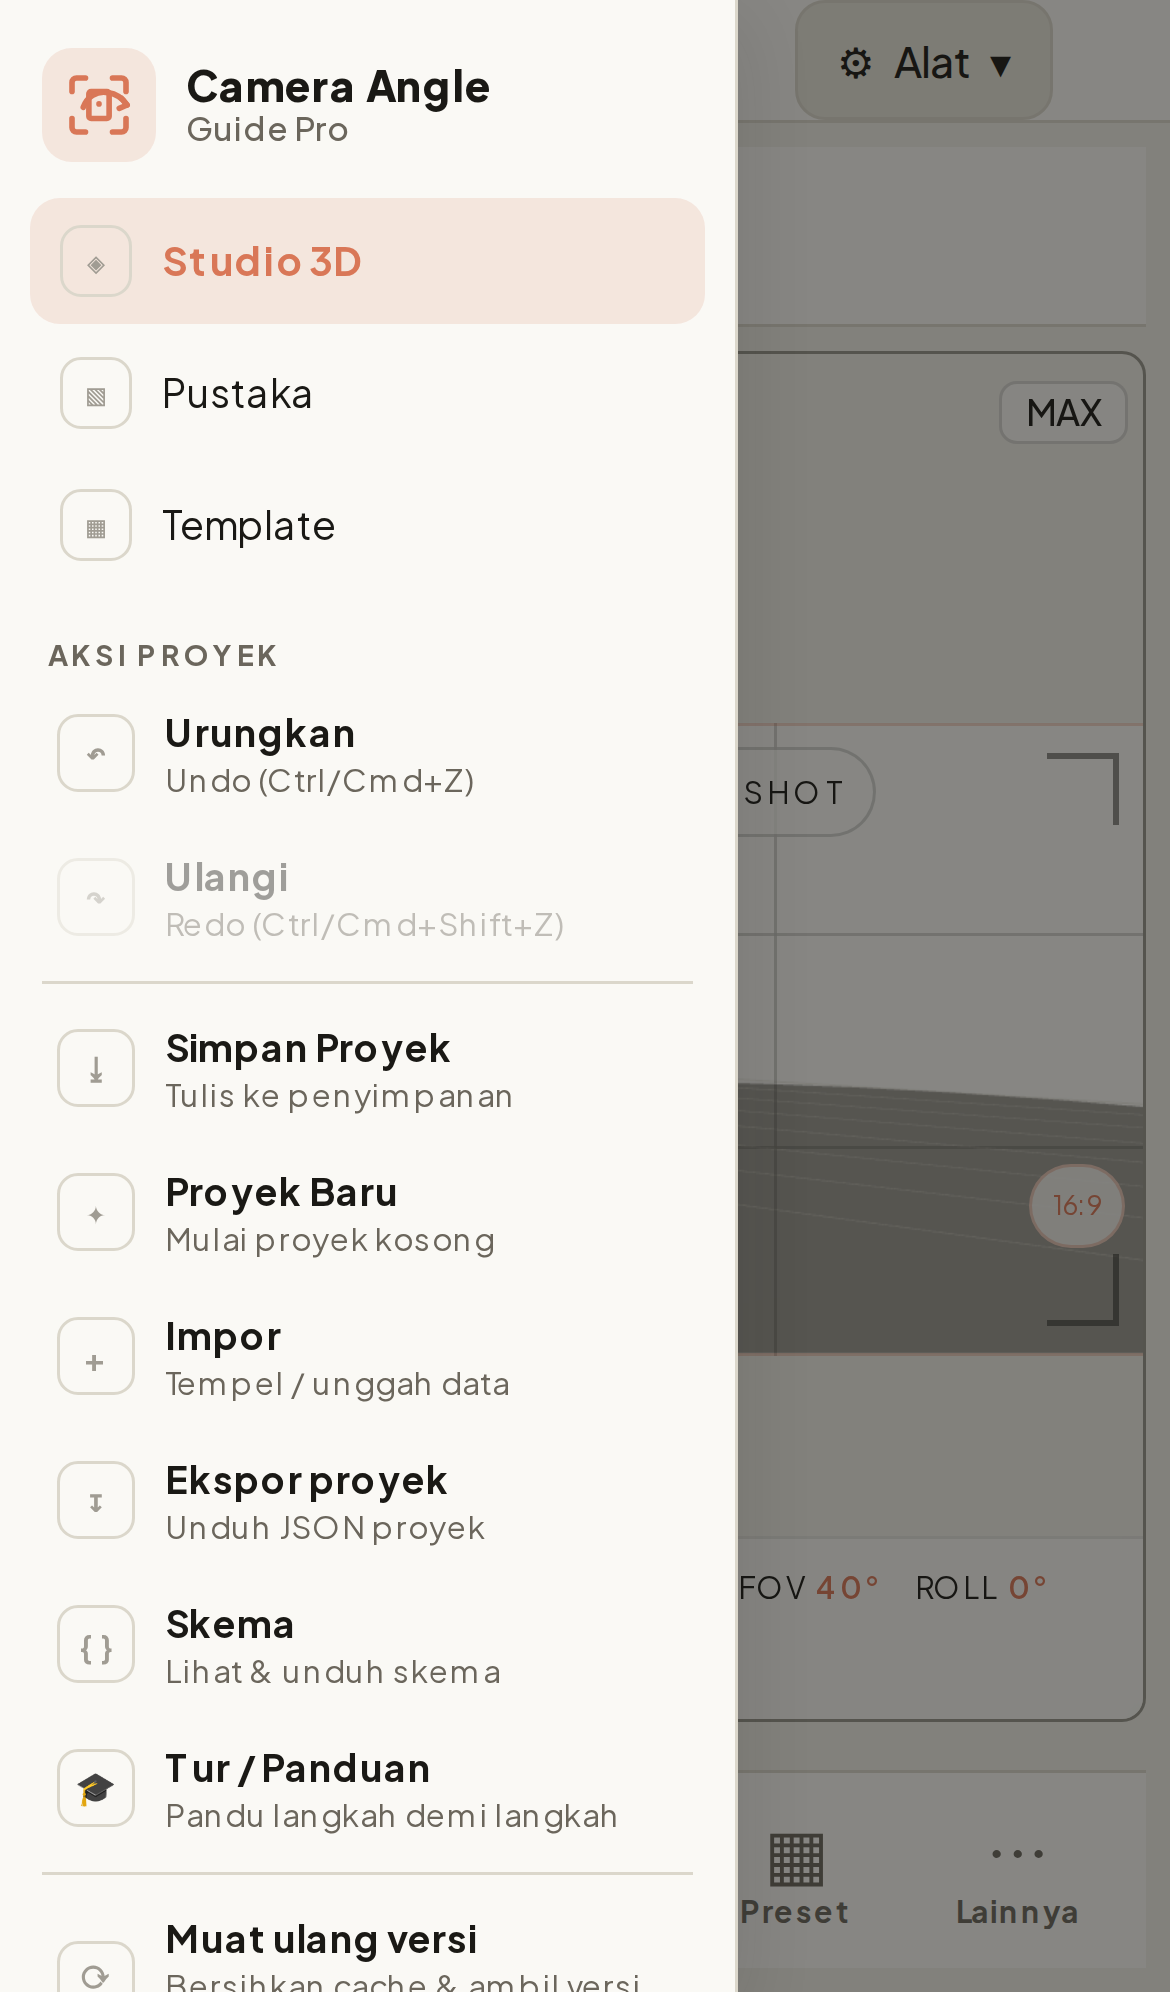
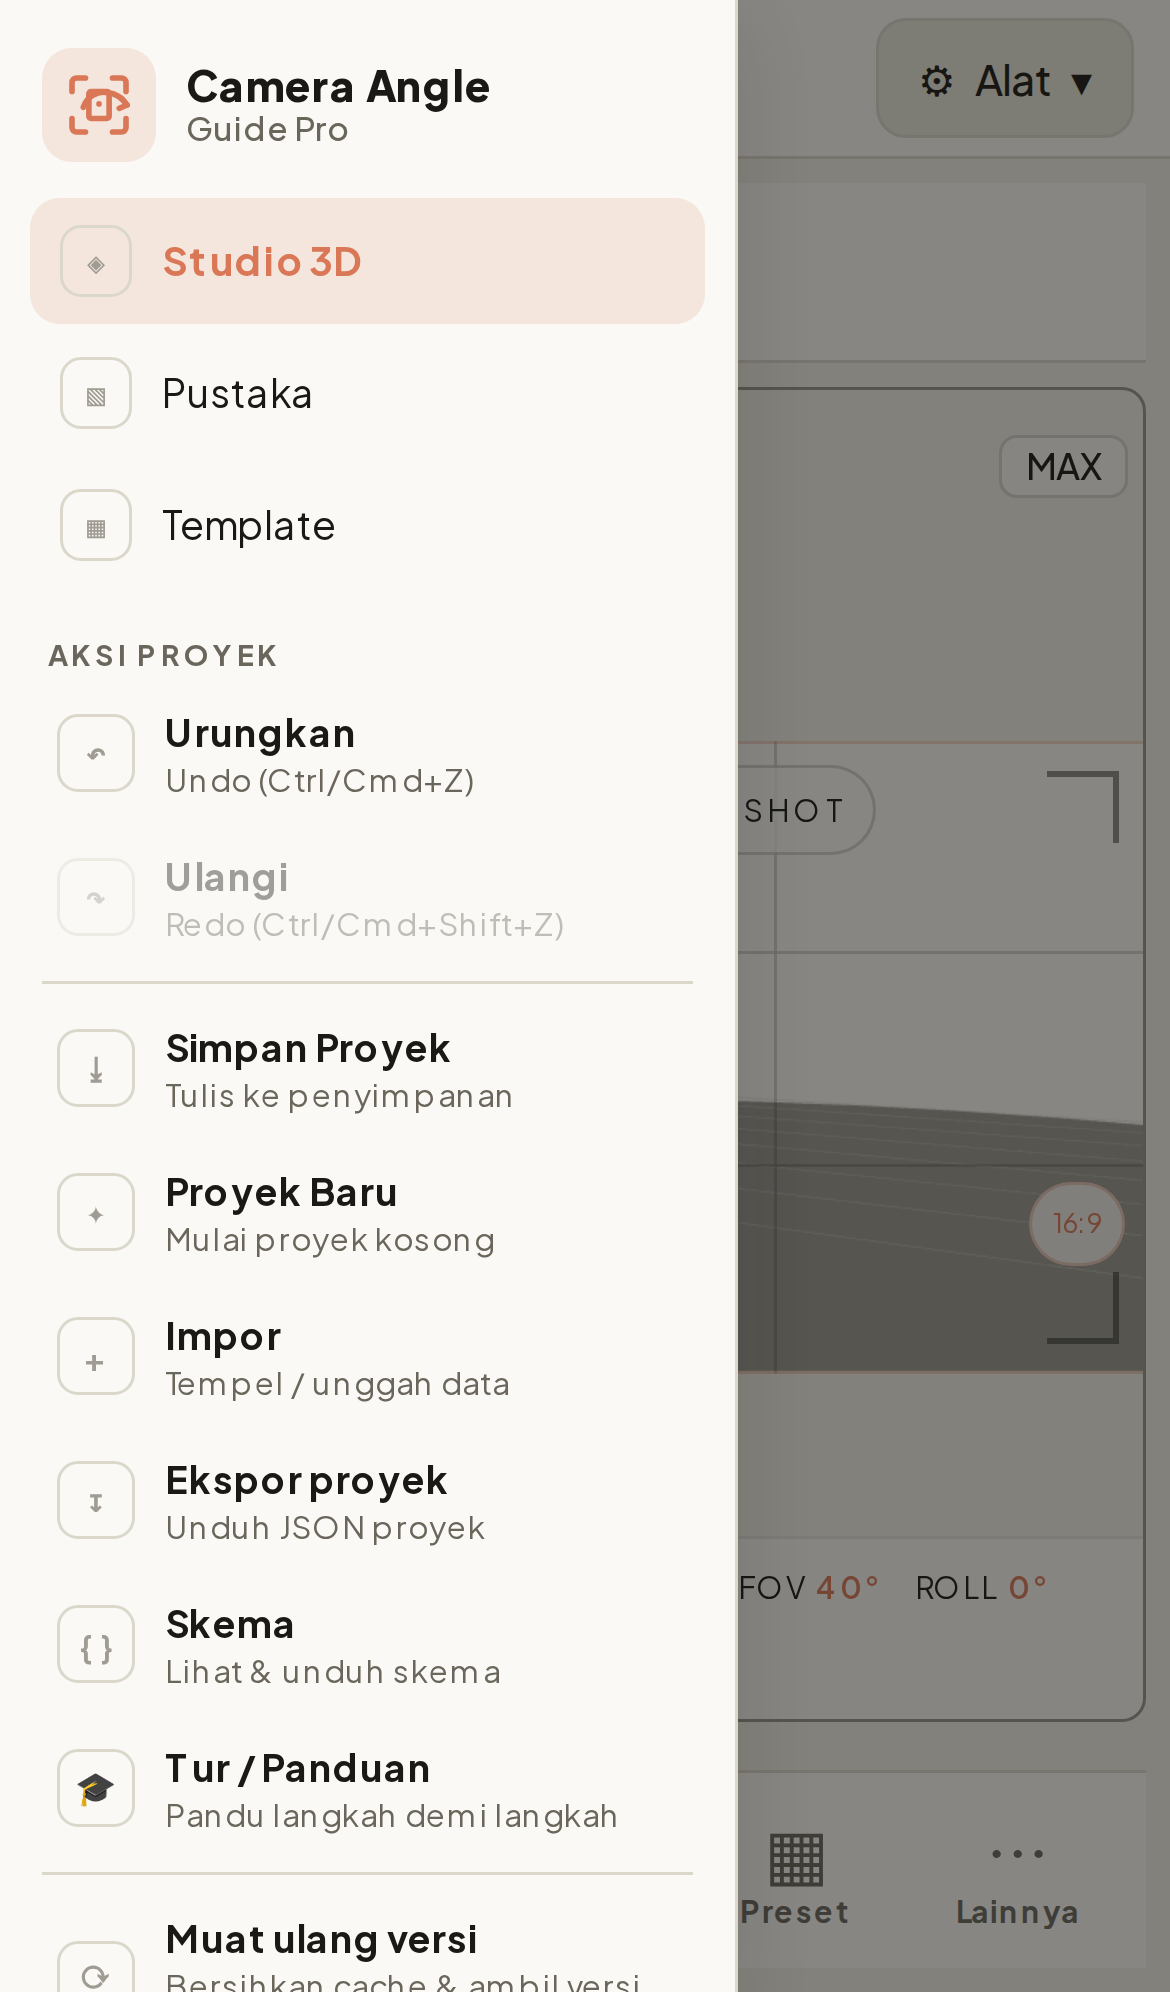
feat(editor): update-frame buttons + camera picker on preview + style-audit fixes
(A) UPDATE FRAME — discoverable now:
- Mobile long-press menu gains '⟳ Perbarui (kamera kini)' (new updateFrameById(id)
  action so it targets the held thumbnail, not just the active frame).
- Desktop sidebar 'Perbarui' button is now always shown when a frame is selected
  (disabled with a hint until the camera changes) instead of appearing only when dirty.

(B) CAMERA PICKER ON THE PREVIEW — new CamPresetMenu chip in the CAM cell's corner
  (mirrors the ortho cells' view dropdown: trigger + popover + pointer isolation so it
  never starts a canvas drag). Sets the per-frame camera, or the project camera when
  global is on. '◉ Kamera ▾' → pick → prompt updates live.

(C) STYLE AUDIT (ultracode, 4 readers) — fixed the real jank:
- HIGH: the bottom dock double-counted env(safe-area-inset-bottom) (root .app-shell
  already reserves it) → clipped ＋/labels on notched phones. Dropped the dock's env.
- Mobile top bar: right-align Alat (margin-left:auto) to fill the dead space; give the
  merged tabbar vertical padding so the boxed ☰/Alat don't touch the border.
- Touch targets: .cag-editor select bumped to 40px (camera pickers were ~32px).
- Tokenized colors: themeColor + PWA background_color now match --background
  (#F0EEE6/#262624, were #ffffff/#0b0b0c); global-error brand fallback #4f46e5→#D97757;
  .mfs-menu-del #fff→var(--destructive-foreground). Raised the long-press menu clamp.
  (Skipped marginal nits — radius scatter, Badge 1px→1.5px — to avoid visual drift.)
[…]

diff --git a/src/components/editor/viewport/CamPresetMenu.tsx b/src/components/editor/viewport/CamPresetMenu.tsx
@@ -1,0 +1,88 @@
+"use client";
+// CamPresetMenu.tsx — the camera-BRAND picker chip on the CAM viewport cell, the
+// direct-from-preview equivalent of the ortho cells' view dropdown (CellViewMenu):
+// a .cvm-trigger button + popover, with the same pointer/wheel isolation so opening
+// it never starts a canvas drag or zoom. Sets the per-frame camera, or the PROJECT
+// camera when the global-camera toggle is on. Reuses CellViewMenu.css.
+
+import React, { useEffect, useRef, useState } from "react";
+import { useEditor } from "@/state/EditorState";
+import { CAMERAS, cameraById } from "@/lib/cameras";
+import "./CellViewMenu.css";
+
+export function CamPresetMenu() {
+  const ctx = useEditor();
+  const settings = ctx.project.settings;
+  const current = ctx.currentFrame();
+  const global = settings.globalCamera;
+  const value = global ? settings.camera : current?.camera ?? "";
+  const disabled = !global && !current;
+  const label = value ? cameraById(value)?.label ?? "Kamera" : "Kamera";
+
+  const [open, setOpen] = useState(false);
+  const rootRef = useRef<HTMLDivElement | null>(null);
+  const popRef = useRef<HTMLDivElement | null>(null);
+
+  // Isolate the open popover from the cell's native pointer/wheel handlers so
+  // clicking/scrolling the menu never starts a drag or zooms the 3D view.
+  useEffect(() => {
+    const el = popRef.current;
+    if (!el || !open) return;
+    const stop = (e: Event) => e.stopPropagation();
+    el.addEventListener("pointerdown", stop);
+    el.addEventListener("wheel", stop, { passive: true });
+    return () => {
+      el.removeEventListener("pointerdown", stop);
+      el.removeEventListener("wheel", stop);
+    };
+  }, [open]);
+
+  useEffect(() => {
+    if (!open) return;
+    const onDoc = (e: MouseEvent) => {
+      if (rootRef.current && !rootRef.current.contains(e.target as Node)) setOpen(false);
+    };
+    const onKey = (e: KeyboardEvent) => {
+      if (e.key === "Escape") setOpen(false);
+    };
+    document.addEventListener("mousedown", onDoc);
+    document.addEventListener("keydown", onKey);
+    return () => {
+      document.removeEventListener("mousedown", onDoc);
+      document.removeEventListener("keydown", onKey);
+    };
+  }, [open]);
+
+  const pick = (id: string) => {
+    if (global) ctx.setProjectCamera(id);
+    else if (current) ctx.setFrameCamera(current.id, id);
+    setOpen(false);
+  };
+
+  return (
+    <div className="cell-viewmenu" ref={rootRef}>
+      <button
+        className="cvm-trigger"
+        title={global ? "Kamera global — berlaku ke semua frame" : "Pilih kamera brand untuk frame ini"}
+        disabled={disabled}
+        onClick={() => setOpen((o) => !o)}
+      >
+        ◉ {label}
+        <span className="cvm-chev">▾</span>
+      </button>
+
+      {open ? (
+        <div className="cvm-pop" ref={popRef}>
+          <div className="cvm-label">{global ? "Kamera global (semua frame)" : "Kamera frame ini"}</div>
+          {CAMERAS.map((c) => (
+            <button key={c.id} className="cvm-item" data-active={value === c.id} onClick={() => pick(c.id)}>
+              <span className="cvm-name">{c.label}</span>
+            </button>
+          ))}
+        </div>
+      ) : null}
+    </div>
+  );
+}
+
+export default CamPresetMenu;

diff --git a/src/components/editor/OutlineSidebar.tsx b/src/components/editor/OutlineSidebar.tsx
@@ -130,10 +130,20 @@ export function OutlineSidebar() {
             />
             s
           </label>
-          {current && dirty ? (
-            <Button variant="primary" size="sm" title="Terapkan kamera saat ini ke frame terpilih" onClick={ctx.updateFrame}>
+          {current ? (
+            <Button
+              variant="primary"
+              size="sm"
+              disabled={!dirty}
+              title={
+                dirty
+                  ? "Tulis kamera + subjek saat ini ke frame terpilih"
+                  : "Ubah kamera dulu — lalu klik untuk menyimpannya ke frame ini"
+              }
+              onClick={ctx.updateFrame}
+            >
               <span style={{ display: "inline-flex", alignItems: "center", gap: 5 }}>
-                <IconUpdate size={13} /> Terapkan
+                <IconUpdate size={13} /> Perbarui
               </span>
             </Button>
           ) : null}

diff --git a/src/state/editor/frames.ts b/src/state/editor/frames.ts
@@ -25,6 +25,7 @@ import type { EditorCore } from "./core";
 export interface FrameActions {
   addFrame: () => void;
   updateFrame: () => void;
+  updateFrameById: (id: string) => void;
   loadFrame: (id: string) => void;
   dupFrame: (id: string) => void;
   delFrame: (id: string) => void;
@@ -92,6 +93,20 @@ export function useFrameActions(
     commitHistory("Perbarui frame");
     bump();
   }, [currentFrame, stopPlayback, captureFrameFields, commitHistory, bump]);
+
+  // Write the live camera into a SPECIFIC frame by id (used by the mobile long-press
+  // menu, which targets the held thumbnail rather than the active frame).
+  const updateFrameById = useCallback(
+    (id: string) => {
+      const hit = findFrame(projectRef.current, id);
+      if (!hit) return;
+      stopPlayback();
+      Object.assign(hit.frame, captureFrameFields());
+      commitHistory("Perbarui frame");
+      bump();
+    },
+    [projectRef, stopPlayback, captureFrameFields, commitHistory, bump]
+  );
 
   const loadFrame = useCallback(
     (id: string) => {
@@ -193,6 +208,7 @@ export function useFrameActions(
   return {
     addFrame,
     updateFrame,
+    updateFrameById,
     loadFrame,
     dupFrame,
     delFrame,

diff --git a/src/components/editor/editor.css b/src/components/editor/editor.css
@@ -1226,7 +1226,7 @@
 }
 .cag-editor .mfs-menu-del.armed {
   background: var(--destructive);
-  color: #fff;
+  color: var(--destructive-foreground);
 }
 .cag-editor .mfs-menu-rename {
   display: flex;
@@ -1669,7 +1669,9 @@
     align-items: stretch;
     justify-content: space-between;
     gap: 4px;
-    padding: 4px 8px calc(4px + env(safe-area-inset-bottom, 0px));
+    /* the root .app-shell already pads env(safe-area-inset-bottom) — don't re-add it
+       here or a notched phone double-counts the inset and clips the icons/labels. */
+    padding: 4px 8px;
     border-top: 1px solid var(--line);
     background: var(--panel);
   }
@@ -1731,6 +1733,11 @@
     overflow-x: hidden;
     grid-template-rows: min(60vh, 480px) auto auto;
   }
+  /* the merged top bar hosts boxed buttons (☰ + Alat) — give the row vertical
+     breathing room (desktop keeps its flush 0 16px underline-tab strip). */
+  .cag-editor .tabbar {
+    padding: 6px 12px;
+  }
   /* ☰ drawer trigger — the app header is hidden on the mobile editor, so the tabbar
      IS the top bar. Big touch target. */
   .cag-editor .tabbar-burger {
@@ -1761,6 +1768,8 @@
     gap: 6px;
     padding: 9px 13px;
     font-size: 14px;
+    /* push Alat to the right edge (fills the dead space left of the hidden hint) */
+    margin-left: auto;
   }
   .cag-editor .tabbar-alat.open {
     background: var(--accent);

diff --git a/src/components/editor/MobileFrameMenu.tsx b/src/components/editor/MobileFrameMenu.tsx
@@ -26,8 +26,9 @@ export function MobileFrameMenu({
   const [name, setName] = useState(frame.name);
   const [confirmDel, setConfirmDel] = useState(false);
 
-  // anchor below the tile, clamped into the viewport
-  const top = Math.min(rect.bottom + 6, window.innerHeight - 240);
+  // anchor below the tile, clamped so the full menu (~272px with the Perbarui row)
+  // never runs off the bottom and clips the last action.
+  const top = Math.min(rect.bottom + 6, window.innerHeight - 288);
   const left = Math.max(8, Math.min(rect.left, window.innerWidth - 184));
   const run = (fn: () => void) => {
     fn();
@@ -53,6 +54,9 @@ export function MobileFrameMenu({
         ) : (
           <>
             <div className="mfs-menu-head">#{index + 1} · {frame.name}</div>
+            <button role="menuitem" onClick={() => run(() => ctx.updateFrameById(frame.id))}>
+              ⟳ Perbarui (kamera kini)
+            </button>
             <button role="menuitem" onClick={() => setRenaming(true)}>✎ Ganti nama</button>
             <button role="menuitem" onClick={() => run(() => ctx.dupFrame(frame.id))}>⧉ Duplikat</button>
             <button role="menuitem" disabled={index === 0} onClick={() => run(() => ctx.moveFrame(frame.id, -1))}>

diff --git a/src/components/editor/viewport/EditorViewport.tsx b/src/components/editor/viewport/EditorViewport.tsx
@@ -10,6 +10,7 @@ import React, { useEffect, useRef } from "react";
 import { useEditor } from "@/state/EditorState";
 import { ViewCell } from "./ViewCell";
 import { CellViewMenu } from "./CellViewMenu";
+import { CamPresetMenu } from "./CamPresetMenu";
 import { Hud } from "./Hud";
 import type { EditorViewportEngine as EngineType } from "./editorViewportEngine";
 import type { EngineHudRefs, ViewId, SlotId, ViewKind } from "@/lib/editor/engineApi";
@@ -165,7 +166,11 @@ export function EditorViewport() {
               maxTitle={m.maxTitle}
               onMax={() => toggleFocus(m.id)}
               head={
-                isSlot ? (
+                m.id === "cam" ? (
+                  // the CAM cell's corner chip is the camera-BRAND picker (the
+                  // direct-from-preview equivalent of the ortho view dropdowns).
+                  <CamPresetMenu />
+                ) : isSlot ? (
                   <CellViewMenu
                     slot={slot}
                     current={quadSlots[slot] ?? SLOT_DEFAULTS[slot]}

diff --git a/src/app/global-error.tsx b/src/app/global-error.tsx
@@ -25,8 +25,8 @@ export default function GlobalError({
           display: "grid",
           placeItems: "center",
           fontFamily: "var(--font-sans, system-ui, sans-serif)",
-          background: "var(--background, #0b0b0c)",
-          color: "var(--foreground, #e6e6e6)",
+          background: "var(--background, #262624)",
+          color: "var(--foreground, #F4F3EE)",
         }}
       >
         <div style={{ textAlign: "center", padding: 24, maxWidth: 420 }}>
@@ -42,7 +42,7 @@ export default function GlobalError({
               border: 0,
               cursor: "pointer",
               fontWeight: 700,
-              background: "var(--primary, #4f46e5)",
+              background: "var(--primary, #D97757)",
               color: "var(--primary-foreground, #fff)",
             }}
           >

diff --git a/src/app/layout.tsx b/src/app/layout.tsx
@@ -37,9 +37,10 @@ export const viewport: Viewport = {
   // env(safe-area-inset-*) become real values the shells pad back in.
   viewportFit: "cover",
   // tints the mobile browser chrome to match the app background per theme
+  // match --background per theme (was #ffffff / #0b0b0c — didn't match the Rupa bg)
   themeColor: [
-    { media: "(prefers-color-scheme: light)", color: "#ffffff" },
-    { media: "(prefers-color-scheme: dark)", color: "#0b0b0c" },
+    { media: "(prefers-color-scheme: light)", color: "#F0EEE6" },
+    { media: "(prefers-color-scheme: dark)", color: "#262624" },
   ],
 };
 

diff --git a/src/app/globals.css b/src/app/globals.css
@@ -419,6 +419,8 @@ header { flex-wrap: wrap; }
 @media (pointer: coarse) {
   button { min-height: 40px; }
   .cag-editor button { min-height: 40px; }
+  /* selects (aspect/fps + the camera-brand pickers) were ~32px — bump to the touch min */
+  .cag-editor select { min-height: 40px; }
   /* keep dense editor micro-controls (outline folds, row icons, HUD maximise) tight */
   .cag-editor .fold,
   .cag-editor .ico,

diff --git a/src/app/manifest.ts b/src/app/manifest.ts
@@ -10,7 +10,7 @@ export default function manifest(): MetadataRoute.Manifest {
     start_url: "/",
     scope: "/",
     display: "standalone",
-    background_color: "#ffffff",
+    background_color: "#F0EEE6",
     theme_color: "#d97757",
     orientation: "any",
     lang: "id",

diff --git a/src/state/EditorState.tsx b/src/state/EditorState.tsx
@@ -127,6 +127,7 @@ export function EditorStateProvider({
   const {
     addFrame,
     updateFrame,
+    updateFrameById,
     loadFrame,
     dupFrame,
     delFrame,
@@ -313,6 +314,7 @@ export function EditorStateProvider({
 
       addFrame,
       updateFrame,
+      updateFrameById,
       loadFrame,
       dupFrame,
       delFrame,

diff --git a/src/state/editor/types.ts b/src/state/editor/types.ts
@@ -108,6 +108,7 @@ export interface EditorContextValue {
   // frame CRUD
   addFrame: () => void;
   updateFrame: () => void;
+  updateFrameById: (id: string) => void;
   loadFrame: (id: string) => void;
   dupFrame: (id: string) => void;
   delFrame: (id: string) => void;